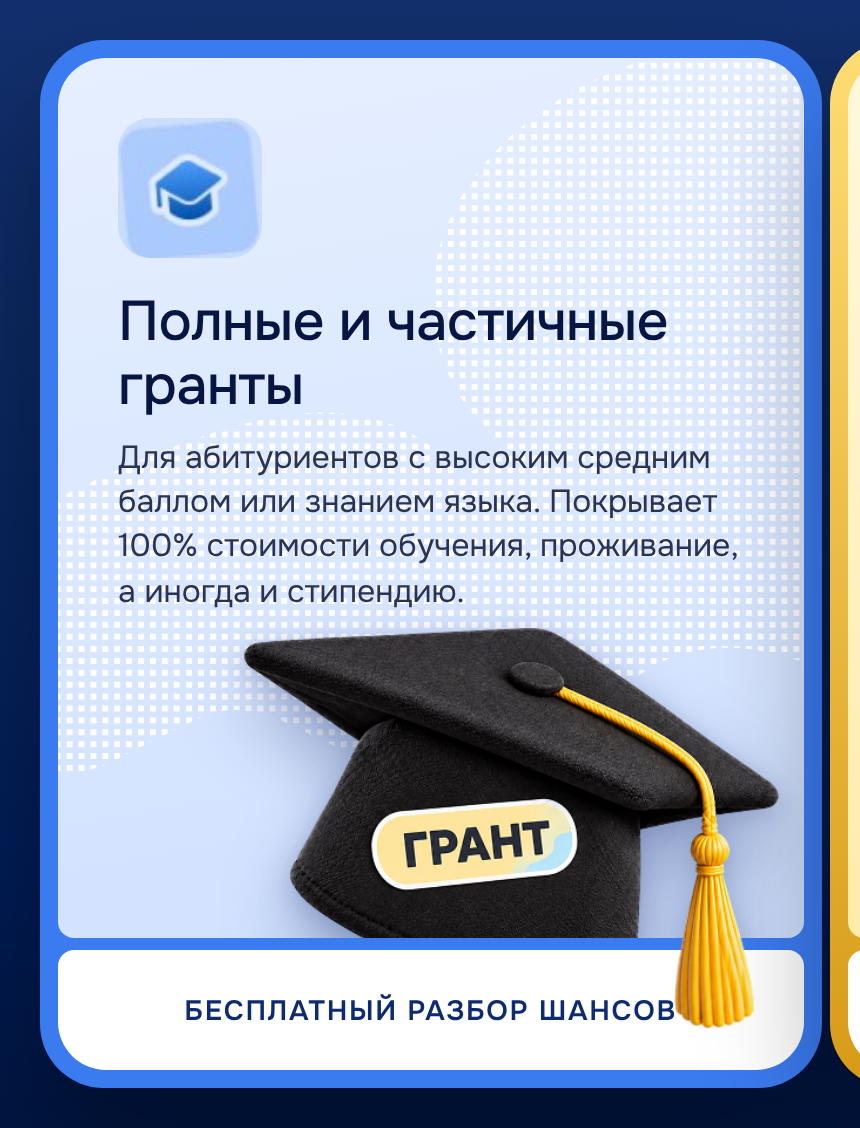
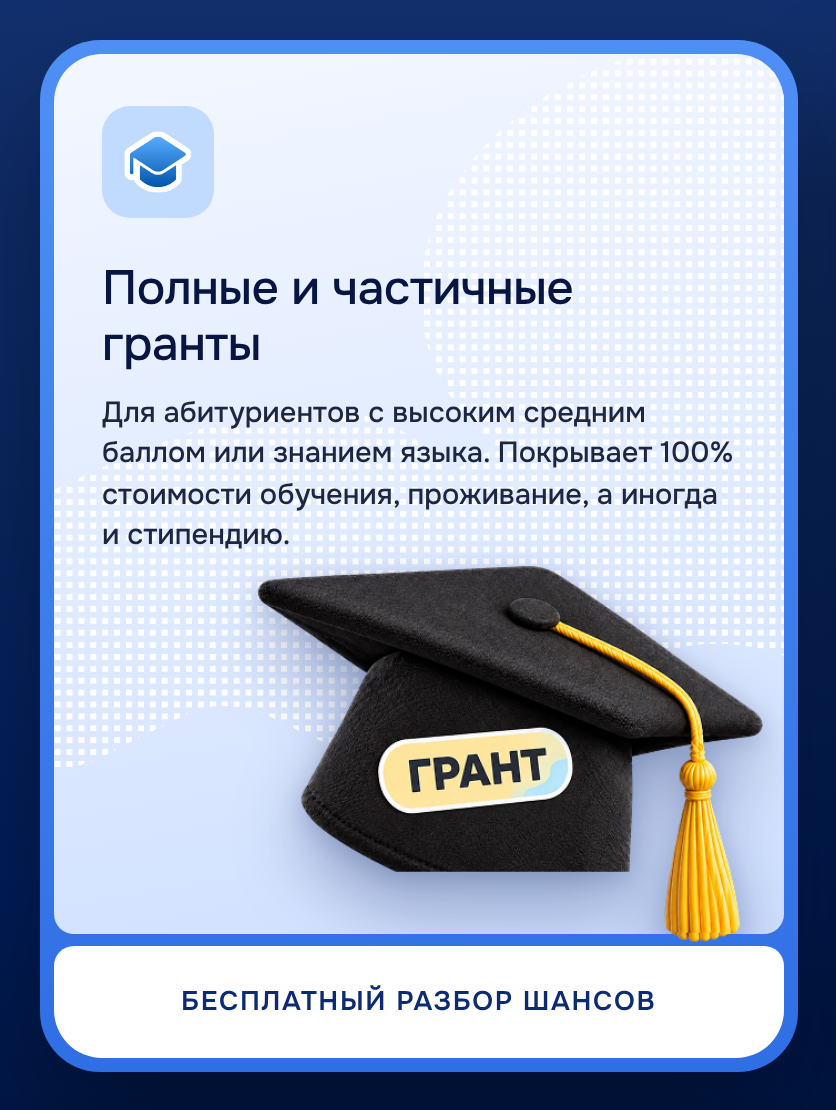
Finance cards: colors sampled from Figma, fan end-state matches design
Claude-Session: https://claude.ai/code/session_01DveQThDXrjAqWsCdBVYsEN

diff --git a/index.html b/index.html
@@ -1479,6 +1479,40 @@ h1,h2,.h2,.why .h2,.pains .h2,.checklist .h2{font-weight:600!important}
 .fin-ill.fin-doc{width:80%;max-width:300px;margin:auto -12px -40px auto}
 .fin:nth-child(2) .fin-in::after,.fin:nth-child(3) .fin-in::after{display:none!important}
 @media (max-width:680px){.fin-ic{width:56px!important;height:56px}.fin-ill.fin-id{width:80%;margin:8px -16px -22px auto}.fin-ill.fin-doc{width:72%;margin:8px -8px -34px auto}}
+
+/* ===== Карточки финансирования по макету ===== */
+.fin{padding:7px!important;border-radius:30px!important}
+.fin-in{border-radius:24px 24px 10px 10px!important;padding:26px 24px 0!important}
+.fin .fbtn{border-radius:10px 10px 24px 24px!important;margin-top:6px!important;padding:18px 12px!important;font-size:13.5px!important;letter-spacing:.06em}
+.fin{--c1:#f3f7ff;--c2:#cfe0ff}
+.fin.y{--c1:#fffdf3;--c2:#ffe9a6}
+.fin.r{--c1:#fff7f6;--c2:#ffd3cf}
+.fin:nth-child(1){background:linear-gradient(180deg,#4f8ff5,#2f6fe4)!important}
+.fin.y{background:linear-gradient(180deg,#fde58a,#d9a019)!important}
+.fin.r{background:linear-gradient(180deg,#ff9a90,#c8101d)!important}
+.fin-ic{width:56px!important;height:56px;margin-bottom:22px}
+.fin h3{font-size:clamp(20px,1.7vw,24px)!important;font-weight:500!important;line-height:1.15;margin-bottom:10px;color:#071542}
+.fin p{font-size:clamp(13px,1.05vw,14.5px)!important;line-height:1.4;color:#1d2540;font-weight:500}
+.fin-ill.fin-cap{margin:auto -14px -6px auto!important;width:80%!important}
+.fin-ill.fin-id{margin:auto -6px 6px auto!important;width:80%!important}
+.fin-ill.fin-doc{margin:auto 0 -18px auto!important;width:72%!important}
+@media (min-width:981px){
+  .fin-grid{max-width:1180px!important;gap:22px!important;margin-top:56px!important}
+  .finance .finance-wrap{padding-bottom:110px}
+}
+@media (max-width:680px){.fin-ill.fin-cap{width:74%!important}.fin-ill.fin-id{width:74%!important}.fin-ill.fin-doc{width:66%!important}}
+
+/* ===== Цвета карточек финансирования — по пикселям макета ===== */
+.fin-in{background:linear-gradient(180deg,var(--c1) 0%,var(--c1) 55%,var(--c2) 100%)!important}
+.fin:nth-child(1){--c1:#eaf2ff;--c2:#b4d6fd;background:linear-gradient(180deg,#5c9bf8 0%,#4a87e4 55%,#2f6bd8 100%)!important}
+.fin.y{--c1:#fffdf4;--c2:#feeaa2;background:linear-gradient(180deg,#ffe8a4 0%,#fdd869 45%,#bc871a 100%)!important}
+.fin.r{--c1:#fff7f3;--c2:#f6d6cb;background:linear-gradient(180deg,#fbb0a4 0%,#f08a7a 35%,#d8323a 75%,#c0101e 100%)!important}
+.fin .fbtn{background:#fff!important}
+.fin:nth-child(1) .fbtn{color:#123a8c}.fin.y .fbtn{color:#5a3a05}.fin.r .fbtn{color:#a3101c}
+
+.fin-ic{width:64px!important;height:64px}
+.fin .fbtn{font-weight:700!important}
+@media (max-width:680px){.fin-ic{width:56px!important;height:56px}}
 </style>
 </head>
 <body>
@@ -2146,7 +2180,7 @@ $$('.why-grid,.prog-grid,.fin-grid,.doc-grid,.steps,.ab-cards,.art-grid,.qa,.sta
 
 // Финансирование: колода карт. Телефон — карты прилипают и складываются стопкой; компьютер — веер раскрывается при прокрутке
 (()=>{const g=$('.fin-grid');if(!g)return;const cards=$$('.fin',g);cards.forEach((c,i)=>c.style.setProperty('--i',i));
-  const rot=[-6,0,6],dx=[1,0,-1];let raf=0;
+  const rot=[-7,0,9],dx=[1,0,-1],fy=[44,-14,70],fx=[18,0,-18];let raf=0;
   const clamp=(v,a,b)=>Math.max(a,Math.min(b,v));
   const tick=()=>{raf=0;const vh=innerHeight;
     if(innerWidth<=980){cards.forEach((c,i)=>{const nx=cards[i+1];if(!nx){c.style.transform='';return}
@@ -2154,8 +2188,8 @@ $$('.why-grid,.prog-grid,.fin-grid,.doc-grid,.steps,.ab-cards,.art-grid,.qa,.sta
         const p=clamp(1-(r.top-me.top)/(me.height),0,1);
         c.style.transform=`scale(${1-p*0.06}) rotate(${(i%2?1:-1)*p*4}deg)`;c.style.filter=`brightness(${1-p*.18})`});}
     else{const r=g.getBoundingClientRect();const p=clamp((vh-r.top)/(vh*0.75),0,1);const e=1-Math.pow(1-p,3);
-      cards.forEach((c,i)=>{const w=c.offsetWidth+16;const x=dx[i]*w*(1-e);const y=(1-e)*40+(i!==1?e*40:-e*10);
-        c.style.transform=`translate(${x}px,${y}px) rotate(${rot[i]*e}deg) scale(${.9+.1*e})`;c.style.zIndex=i===1?3:1;c.style.filter=''});}};
+      cards.forEach((c,i)=>{const w=c.offsetWidth+16;const x=dx[i]*w*(1-e)+fx[i]*e;const y=(1-e)*40+fy[i]*e;
+        c.style.transform=`translate(${x}px,${y}px) rotate(${rot[i]*e}deg) scale(${.9+.1*e})`;c.style.zIndex=i===1?1:2;c.style.filter=''});}};
   const on=()=>{if(!raf)raf=requestAnimationFrame(tick)};
   addEventListener('scroll',on,{passive:true});addEventListener('resize',on);tick();
   if(matchMedia('(prefers-reduced-motion:reduce)').matches){removeEventListener('scroll',on);cards.forEach(c=>c.style.transform='')}
@@ -2163,8 +2197,9 @@ $$('.why-grid,.prog-grid,.fin-grid,.doc-grid,.steps,.ab-cards,.art-grid,.qa,.sta
 
 // Грант: кисточка шапки свисает поверх кнопки
 (()=>{const cap=$('.fin-cap');if(!cap)return;const card=cap.closest('.fin');const t=cap.cloneNode();t.className='fin-tassel';t.alt='';card.appendChild(t);
-  const place=()=>{const c=card.getBoundingClientRect(),r=cap.getBoundingClientRect();const k=card.offsetWidth/c.width||1;
-    t.style.left=(r.left-c.left)*k+'px';t.style.top=(r.top-c.top)*k+'px';t.style.width=r.width*k+'px';const fi=cap.closest('.fin-in').getBoundingClientRect();const top=Math.max(0,(fi.bottom-r.top)/r.height*100);t.style.clipPath=`inset(${top.toFixed(1)}% 3% 0 79.5%)`};
+  const place=()=>{const fi=cap.closest('.fin-in');const L=fi.offsetLeft+cap.offsetLeft,T=fi.offsetTop+cap.offsetTop;
+    t.style.left=L+'px';t.style.top=T+'px';t.style.width=cap.offsetWidth+'px';
+    const top=Math.max(0,(fi.offsetHeight-cap.offsetTop)/cap.offsetHeight*100);t.style.clipPath=`inset(${top.toFixed(1)}% 3% 0 79.5%)`};
   addEventListener('resize',place);cap.complete?place():cap.addEventListener('load',place);
   let raf=0;addEventListener('scroll',()=>{if(!raf)raf=requestAnimationFrame(()=>{raf=0;place()})},{passive:true});place();})();
 // модалка
